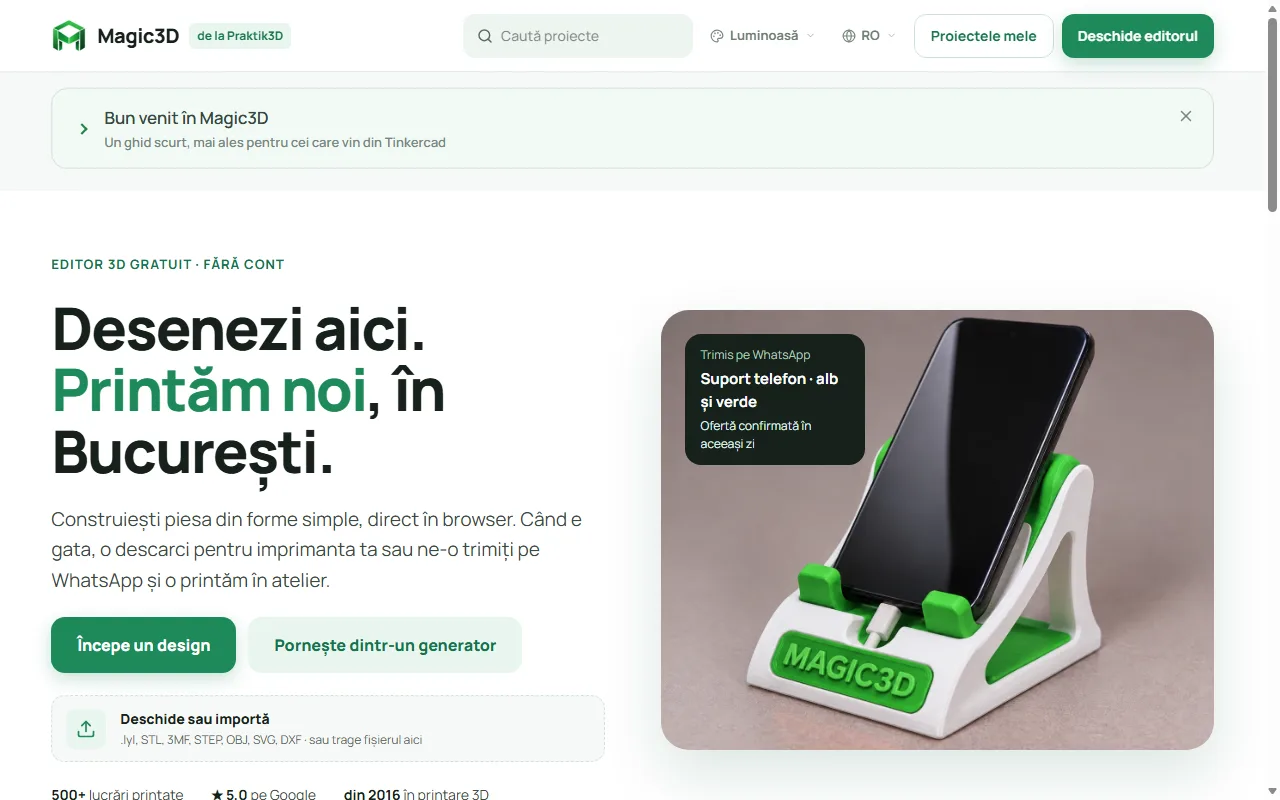
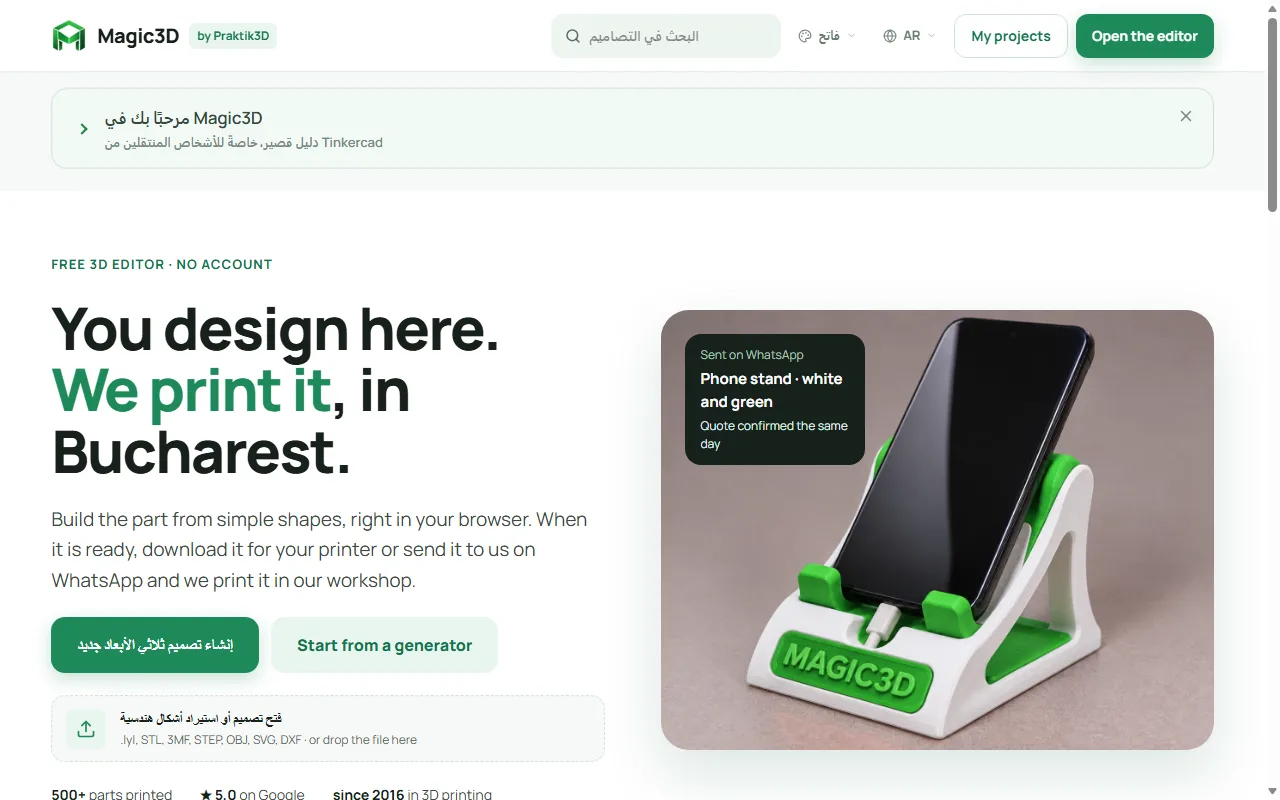
Ghid si pagina de start: aceleasi nume pentru butoanele de pornire
- "Incepe un design" si "Deschide sau importa" iau textul din catalogul interfetei
  (dashboard.createDesign, dashboard.importGeometry), pe care il citeste si ghidul: in
  fiecare limba, ghidul numeste butoanele cum apar pe pagina
- ghidul (ro, en), capitolul "Primii pasi": generatoarele de pe pagina de start, tragerea
  fisierelor peste pagina si "Continua ultima plansa"; captura paginii de start refacuta
  (ro, en, de, ar), cu ghidul de bun venit restrans

diff --git a/apps/web/src/lib/messages.ro.ts b/apps/web/src/lib/messages.ro.ts
@@ -53,7 +53,7 @@ export const MESSAGES_RO: Record<MessageKey, string> = {
   "editor.loading": "Se încarcă editorul",
   "dashboard.searchPlaceholder": "Caută proiecte",
   "dashboard.searchLabel": "Caută proiecte",
-  "dashboard.createDesign": "Creează un proiect 3D nou",
+  "dashboard.createDesign": "Începe un design",
   "dashboard.untitledDesign": "Proiect fără nume {number}",
   "dashboard.copyOf": "{name} (copie)",
   "dashboard.copyOfNumbered": "{name} (copia {number})",
@@ -83,7 +83,7 @@ export const MESSAGES_RO: Record<MessageKey, string> = {
   "tabs.sameProject": "Acest proiect e deschis și în altă filă. Ambele salvează automat și se suprascriu reciproc – lucrează doar într-una dintre ele.",
   "tabs.reload": "Reîncarcă",
   "dashboard.updateDismiss": "Închide notificarea de actualizare",
-  "dashboard.importGeometry": "Deschide un proiect sau importă geometrie",
+  "dashboard.importGeometry": "Deschide sau importă",
   "dashboard.continueWorkplane": "Continuă pe planul de lucru",
   "dashboard.projects": "Proiecte",
   "dashboard.newFolderTitle": "Creează un dosar pentru proiectele din acest browser",
@@ -155,7 +155,7 @@ export const MESSAGES_RO: Record<MessageKey, string> = {
   "welcome.localTitle": "Instalează ca aplicație sau găzduiește-l singur",
   "welcome.localBody": "Instalat ca aplicație, Magic3D pornește ca un program obișnuit, cu iconiță și fereastră proprie, chiar și fără internet – ajunge un clic în Chrome sau Edge. Dacă preferi să-l găzduiești singur, ca nimic să nu iasă din casă: pe Windows ajunge o linie în PowerShell, care adaugă și o scurtătură pe desktop. Pentru un NAS sau un server de acasă există o imagine Docker gata făcută pentru amd64 și arm64; acolo proiectele pot sta și pe server, așa că toate dispozitivele din casă le văd pe aceleași. Pașii sunt în capitolul din ghid despre instalare și găzduire proprie.",
   "welcome.step1Title": "Începe un proiect",
-  "welcome.step1Body": "„Creează un proiect 3D nou” deschide un plan de lucru gol. Un fișier existent se deschide din dala de alături.",
+  "welcome.step1Body": "„Începe un design” deschide un plan de lucru gol. Un fișier existent îl deschizi cu „Deschide sau importă”, sau îl tragi peste pagina de start.",
   "welcome.step2Title": "Așază forme",
   "welcome.step2Body": "Trage o cutie, un cilindru, un text sau orice altă formă din biblioteca de forme (Forme, stânga sus în panglică) pe planul de lucru, apoi setează dimensiunea și poziția. Dimensiunile acceptă și procente: 50% le înjumătățește. „Transparent” te lasă să vezi prin corp.",
   "welcome.step3Title": "Grupează decupările",

diff --git a/apps/web/src/lib/messages.en.ts b/apps/web/src/lib/messages.en.ts
@@ -58,7 +58,7 @@ export const MESSAGES_EN = {
 
   "dashboard.searchPlaceholder": "Search designs",
   "dashboard.searchLabel": "Search designs",
-  "dashboard.createDesign": "Create new 3D design",
+  "dashboard.createDesign": "Start a design",
   "dashboard.untitledDesign": "Untitled design {number}",
   "dashboard.copyOf": "{name} (copy)",
   "dashboard.copyOfNumbered": "{name} (copy {number})",
@@ -88,7 +88,7 @@ export const MESSAGES_EN = {
   "tabs.sameProject": "This design is open in another tab as well. Both save automatically and overwrite each other – keep working in just one of them.",
   "tabs.reload": "Reload",
   "dashboard.updateDismiss": "Dismiss update notice",
-  "dashboard.importGeometry": "Open a design or import geometry",
+  "dashboard.importGeometry": "Open or import",
   "dashboard.continueWorkplane": "Continue workplane",
   "dashboard.projects": "Designs",
   "dashboard.newFolderTitle": "Make a folder for the designs of this browser",
@@ -160,7 +160,7 @@ export const MESSAGES_EN = {
   "welcome.localTitle": "Install as an app or host it yourself",
   "welcome.localBody": "Installed as an app, Magic3D starts like a normal program, with its own icon and window, even without internet - one click in Chrome or Edge is enough. If you would rather host it yourself so nothing leaves the house: on Windows one line in PowerShell is enough, and it adds a shortcut on the desktop. For a NAS or home server there is a ready-made Docker image for amd64 and arm64; there the designs can also live on the server, so every device in the house sees the same ones. The steps are in the guide chapter on installing and hosting it yourself.",
   "welcome.step1Title": "Start a design",
-  "welcome.step1Body": "“Create a new 3D design” opens an empty workplane. An existing file goes through the tile next to it.",
+  "welcome.step1Body": "“Start a design” opens an empty workplane. An existing file opens with “Open or import”, or drop it onto the start page.",
   "welcome.step2Title": "Place shapes",
   "welcome.step2Body": "Drag a box, cylinder, text or any other shape from the shape library (Shapes, top left in the ribbon) onto the workplane, then set size and position. Sizes take percentages too: 50% halves them. \"Transparent\" lets you look through a body.",
   "welcome.step3Title": "Group in the cut-outs",

diff --git a/apps/web/src/magic3d/start/StartSectiuni.tsx b/apps/web/src/magic3d/start/StartSectiuni.tsx
@@ -3,6 +3,7 @@
 import { FolderOpen, Search, Sparkles, Upload } from "lucide-react";
 import { LanguageSwitch } from "@/components/LanguageSwitch";
 import { ThemeSwitch } from "@/components/ThemeSwitch";
+import { t } from "@/lib/i18n";
 import { LANGUAGE_INFO } from "@/lib/languages";
 import { libraryShapeAssets } from "@/lib/shapeCatalog";
 import { useLanguage } from "@/lib/useLanguage";
@@ -12,6 +13,8 @@ import { noteazaFormaInitiala } from "@/magic3d/start/formaInitiala";
 import { tst } from "@/magic3d/start/texte";
 
 /*
+ * Butonul de creare si cardul de import iau textul din catalogul interfetei (dashboard.*), pe care il citeste si ghidul.
+ *
  * Sectiunile noi ale paginii de start Magic3D (macheta "Pagina de start"). Nu tin stare proprie:
  * cautarea, crearea, continuarea si importul sunt functiile existente ale paginii, primite ca props.
  */
@@ -79,7 +82,7 @@ export function StartHero({ onCreate, onContinue, onImport, ultima }: {
         </h1>
         <p className="m3d-intro">{tst("intro")}</p>
         <div className="m3d-hero-butoane">
-          <button className="m3d-buton m3d-buton-plin m3d-buton-mare" type="button" onClick={onCreate}>{tst("incepe")}</button>
+          <button className="m3d-buton m3d-buton-plin m3d-buton-mare" type="button" onClick={onCreate}>{t("dashboard.createDesign")}</button>
           <a className="m3d-buton m3d-buton-moale m3d-buton-mare" href="#generatoare">{tst("dinGenerator")}</a>
         </div>
         <div className="m3d-hero-carduri">
@@ -97,7 +100,7 @@ export function StartHero({ onCreate, onContinue, onImport, ultima }: {
           <button className="m3d-card-actiune m3d-card-import" type="button" onClick={onImport}>
             <span className="m3d-card-actiune-icon"><Upload size={20} aria-hidden="true" /></span>
             <span className="m3d-card-actiune-text">
-              <strong>{tst("importa")}</strong>
+              <strong>{t("dashboard.importGeometry")}</strong>
               <span>{tst("formate")}</span>
             </span>
           </button>

diff --git a/apps/web/src/magic3d/start/texte.ts b/apps/web/src/magic3d/start/texte.ts
@@ -11,10 +11,8 @@ const RO = {
   titluVerde: "Printăm noi",
   titlu2: ", în București.",
   intro: "Construiești piesa din forme simple, direct în browser. Când e gata, o descarci pentru imprimanta ta sau ne-o trimiți pe WhatsApp și o printăm în atelier.",
-  incepe: "Începe un design",
   dinGenerator: "Pornește dintr-un generator",
   continua: "Continuă ultima planșă",
-  importa: "Deschide sau importă",
   formate: ".lyl, STL, 3MF, STEP, OBJ, SVG, DXF · sau trage fișierul aici",
   pozaHeroAlt: "Suport de telefon printat 3D, alb cu verde, cu logo Magic3D în relief",
   ilustratieSus: "Trimis pe WhatsApp",
@@ -61,10 +59,8 @@ const EN: Record<CheieStart, string> = {
   titluVerde: "We print it",
   titlu2: ", in Bucharest.",
   intro: "Build the part from simple shapes, right in your browser. When it is ready, download it for your printer or send it to us on WhatsApp and we print it in our workshop.",
-  incepe: "Start a design",
   dinGenerator: "Start from a generator",
   continua: "Continue the last plate",
-  importa: "Open or import",
   formate: ".lyl, STL, 3MF, STEP, OBJ, SVG, DXF · or drop the file here",
   pozaHeroAlt: "3D printed phone stand, white and green, with a raised Magic3D logo",
   ilustratieSus: "Sent on WhatsApp",

diff --git a/docs/guide/ro/01-getting-started.md b/docs/guide/ro/01-getting-started.md
@@ -5,13 +5,15 @@ summary: De la o foaie goală la prima ta piesă pentru imprimanta 3D, în cinci
 
 Magic3D este un program de proiectare pentru printare 3D care rulează direct în browser. Construiești o piesă din forme simple, faci găuri în ea, îi rotunjești muchiile și o trimiți în slicer. Nu ai nimic de instalat și nu trebuie să te înregistrezi. Ce construiești rămâne pe calculatorul tău.
 
-![Pagina de start Magic3D: „Creează un proiect 3D nou" sus, proiectele tale și ghidul rapid dedesubt.](shot:start-page)
+![Pagina de start Magic3D: butonul pentru un design nou și importul sus, generatoarele, apoi proiectele tale.](shot:start-page)
 
 ## Crearea unui proiect
 
 Deschide [magic3d.ro](https://magic3d.ro/). Pe pagina de start, dă clic pe {{ui:dashboard.createDesign}}. Editorul se deschide cu un plan de lucru gol, grila pe care prinde formă totul.
 
-Dacă ai deja un fișier pe care vrei să-l continui, folosește {{ui:dashboard.importGeometry}}. Merge atât pentru proiecte Magic3D (`.lyl`), cât și pentru fișiere STL, OBJ, 3MF, STEP sau SVG.
+Poți porni și dintr-un generator: cardurile de sub butoane (breloc cu nume, cutie, roată dințată, cod QR, vază și altele) deschid un design nou cu forma deja pe placă. Generatoarele Magic3D (litere, nume, brelocuri, rame și altele) le găsești în editor, la **Generatoare**.
+
+Dacă ai deja un fișier pe care vrei să-l continui, folosește {{ui:dashboard.importGeometry}} sau trage fișierul peste pagina de start. Merge atât pentru proiecte Magic3D (`.lyl`), cât și pentru fișiere STL, OBJ, 3MF, STEP sau SVG. Ultimul proiect la care ai lucrat se redeschide cu un clic pe **Continuă ultima planșă**.
 
 Toate proiectele tale apar apoi pe pagina de start, cu o imagine de previzualizare. Sunt păstrate în spațiul de stocare al browserului și se salvează automat după fiecare modificare, așa că nu există buton de salvare. **Magic3D nu își asumă nicio răspundere pentru proiectele păstrate în browser.** Un browser se poate strica sau o actualizare a lui poate crea probleme, așa că fă din când în când o copie de siguranță a proiectelor cu {{ui:dashboard.backupAll}} de pe pagina de start sau salvează-le ca fișiere. O copie de siguranță se recuperează cu {{ui:dashboard.restoreBackup}}. Cum împachetezi proiectele într-un fișier și cum le dai mai departe afli în [Fișiere și salvare](chapter:files-and-saving). Dacă vrei un memento, activează {{ui:workspace.confirmTabClose}} în setări (rotița dințată din panglică): browserul te întreabă atunci înainte să închidă sau să reîncarce o filă cu un proiect deschis.
 

diff --git a/docs/guide/en/01-getting-started.md b/docs/guide/en/01-getting-started.md
@@ -5,13 +5,15 @@ summary: From a blank sheet to your first part for the 3D printer, in five minut
 
 Magic3D is a design program for 3D printing that runs right in your browser. You build a part from simple shapes, cut holes into it, round the edges and send it to your slicer. There is nothing to install and nothing to sign up for. What you build stays on your computer.
 
-![The start page of Magic3D: "Create new 3D design" at the top, your designs and the quick guide below.](shot:start-page)
+![The start page of Magic3D: the button for a new design and the import at the top, the generators, then your designs.](shot:start-page)
 
 ## Creating a design
 
 Open [magic3d.ro](https://magic3d.ro/). On the start page click {{ui:dashboard.createDesign}}. The editor opens with an empty workplane, the grid on which everything takes shape.
 
-If you already have a file to continue with, use {{ui:dashboard.importGeometry}}. That works for Magic3D designs (`.lyl`) as well as STL, OBJ, 3MF, STEP or SVG files.
+You can also start from a generator: the cards below the buttons (name keyring, box, gear, QR code, vase and more) open a new design with the shape already on the plate. The Magic3D generators (letters, names, keyrings, frames and more) are in the editor, under **Generators**.
+
+If you already have a file to continue with, use {{ui:dashboard.importGeometry}} or drop the file onto the start page. That works for Magic3D designs (`.lyl`) as well as STL, OBJ, 3MF, STEP or SVG files. The design you worked on last opens again with a click on **Continue the last plate**.
 
 All your designs later appear on the start page with a preview picture. They are kept in your browser's storage and saved automatically after every change, so there is no save button. **Magic3D takes no responsibility for designs kept in the browser.** A browser can fail, or a browser update can cause problems, so back up your designs from time to time with {{ui:dashboard.backupAll}} on the start page, or save them as files. A backup comes back with {{ui:dashboard.restoreBackup}}. How to pack designs into a file and pass them on is covered in [Files and saving](chapter:files-and-saving). If you would like a reminder, switch on {{ui:workspace.confirmTabClose}} in the settings (the cogwheel in the ribbon): the browser then asks before a tab with an open design is closed or reloaded.
 
